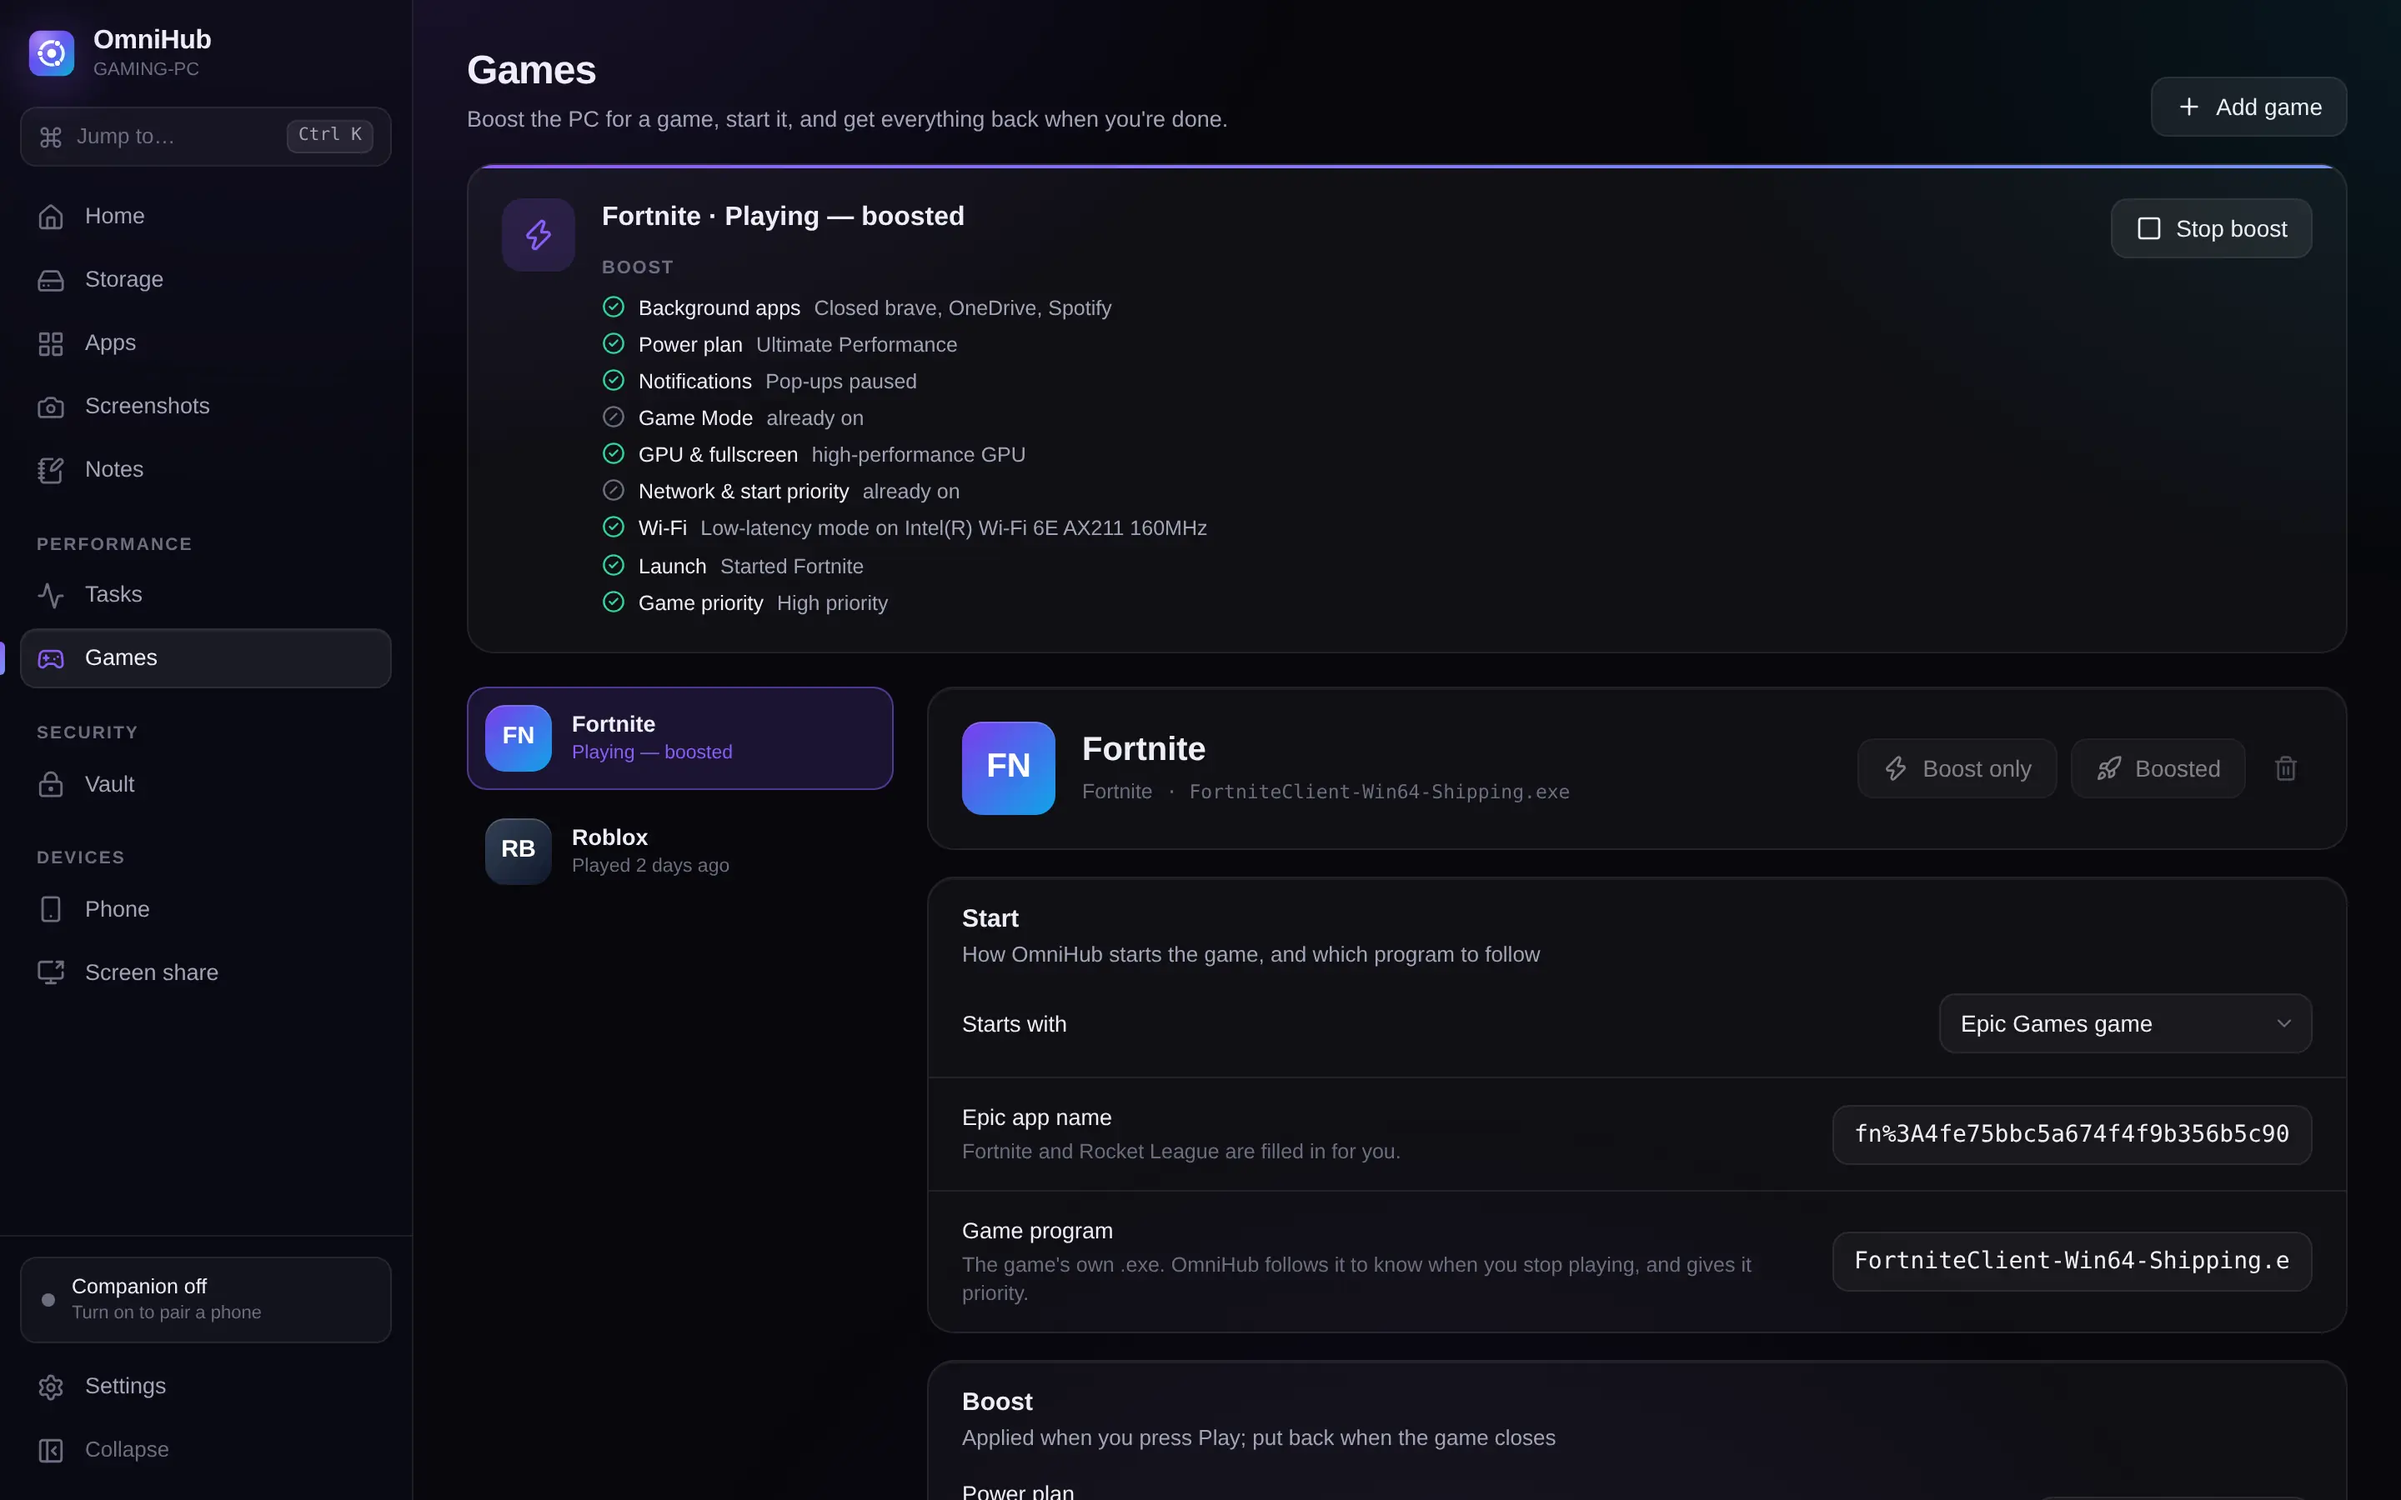
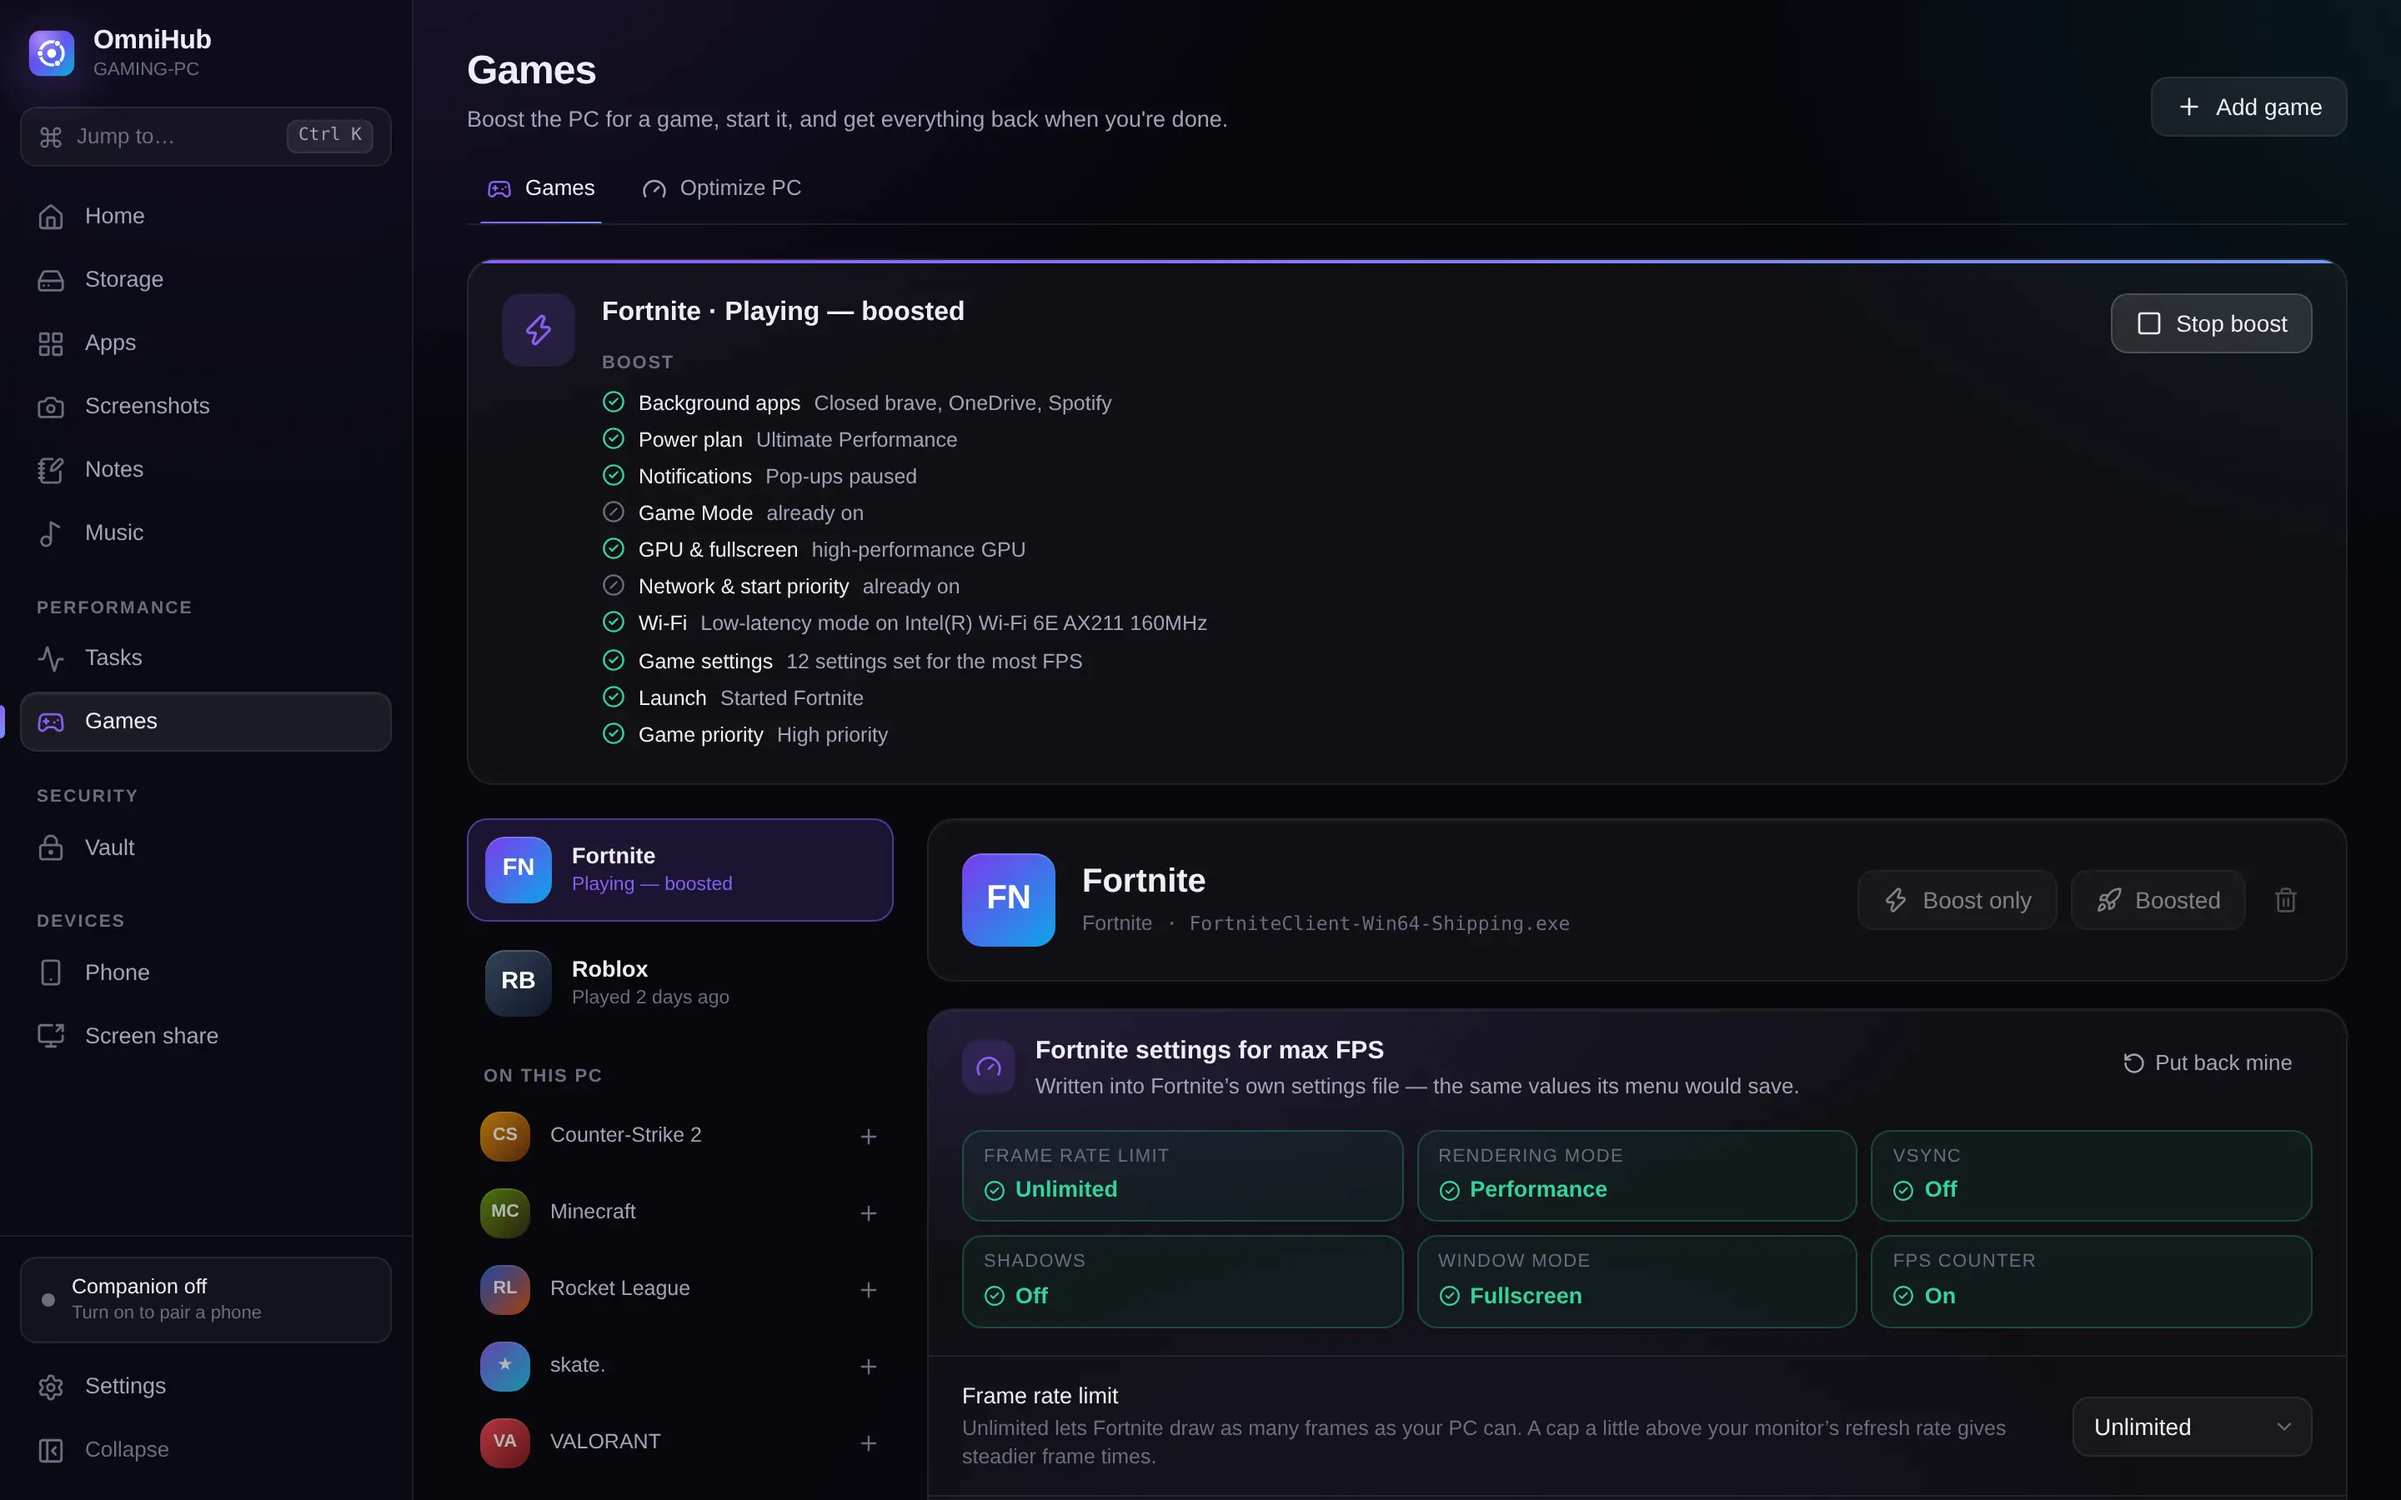
Website: Fortnite at max FPS, Optimize PC, full-screen lyrics (0.3.0)
Claude-Session: https://claude.ai/code/session_019TP5o51yNw9HsYFE8GhTTe

diff --git a/app.js b/app.js
@@ -297,7 +297,8 @@
     { id: 'storage', icon: 'drive', label: 'Storage', title: 'Storage', heading: 'See what fills your drives — in seconds', text: "OmniHub reads the NTFS file table directly, like WizTree and Everything, and keeps it current from Windows' change journal. Treemap, largest files, file types, what grew, duplicates and cleanup.", tags: ['1.15M files in 3.3 s', 'Treemap', 'Duplicates', 'Cleanup'] },
     { id: 'apps', icon: 'apps', label: 'Apps', title: 'Apps', heading: 'Every program, with its real size', text: 'Desktop programs, Store apps and Start menu entries with their icons and the size from your last scan. Launch, uninstall, manage startup apps, or see the screenshots you took in each.', tags: ['Store apps', 'Uninstall', 'Startup apps', 'Favourites'] },
     { id: 'tasks', icon: 'tasks', label: 'Tasks', title: 'Tasks', heading: 'What each program really uses', text: 'CPU, memory, GPU, video memory and disk for every program, live — with End task, priority and file location. Same view on your phone.', tags: ['GPU per app', 'Video memory', 'Priority', 'End task'] },
-    { id: 'games', icon: 'game', label: 'Games', title: 'Games', heading: 'A boost for every game', text: 'Press Play and OmniHub switches the power plan, closes what you picked, pauses pop-ups and raises the game — then puts everything back when you quit.', tags: ['Fortnite', 'Roblox flags', 'Ping helper', 'Auto-restore'] },
+    { id: 'games', icon: 'game', label: 'Games', title: 'Games', heading: 'A boost for every game — and Fortnite at max FPS', text: 'Press Play and OmniHub sets Fortnite to unlimited FPS, Performance mode and its lowest settings, switches the power plan, closes what you picked and raises the game — then puts everything back when you quit. It finds the games you have on Epic, Steam, Riot, Roblox and Minecraft.', tags: ['Fortnite max FPS', 'Finds your games', 'Roblox flags', 'Ping helper'] },
+    { id: 'music', icon: 'music', label: 'Music', title: 'Music', heading: 'Lyrics, Apple Music style — full screen', text: 'Whatever the PC plays, with its cover art blurred into drifting light, big lyrics that glide up line by line and fill word by word, and three dots through the breaks. Click any line to jump there.', tags: ['Full screen', 'Word by word', 'Click to seek', 'Spotify & more'] },
     { id: 'vault', icon: 'lock', label: 'Vault', title: 'Vault', heading: 'Passwords, properly locked', text: 'Argon2id and AES-256-GCM, bound to your Windows account. Two-factor codes, a password health report, an optional breach check — and autofill in Brave, Chrome and Edge.', tags: ['Windows Hello', '2FA codes', 'Autofill', 'Breach check'] },
     { id: 'notes', icon: 'idea', label: 'Notes', title: 'Notes', heading: 'Notes, and ideas for Claude', text: 'Markdown notes with templates and reminders. Ideas are written as .md files into a folder Claude can read — and replies Claude writes there show up next to your note.', tags: ['Markdown', 'Templates', 'Reminders', 'Claude folder'] },
     { id: 'screenshots', icon: 'camera', label: 'Screenshots', title: 'Screenshots', heading: 'Capture it, mark it up, find it again', text: 'Region, window or every screen with global hotkeys. A searchable library with tags and favourites, markup and text recognition — saved as normal files in your Pictures.', tags: ['Hotkeys', 'Markup', 'Text recognition', 'Tags'] },
@@ -423,6 +424,10 @@
     ['apps', 'Apps with real sizes', 'Every desktop and Store app with its size. Uninstall, launch, and turn off startup apps.'],
     ['tasks', 'GPU per program', 'CPU, memory, GPU, video memory and disk for every program — End task and priority included.'],
     ['game', 'Game boost', 'Power plan, background apps, notifications, GPU, Wi-Fi and priority — tuned for the game, then put back.'],
+    ['game', 'Fortnite at max FPS', 'Unlimited frame rate, Performance mode, lowest settings, VSync off and the FPS counter — written into Fortnite’s own settings, with yours kept to put back.'],
+    ['tasks', 'Optimize this PC', 'Monitor at its full refresh rate, Ultimate power plan, no background game recording, GPU scheduling and more — each one checked and undoable.'],
+    ['apps', 'Finds your games', 'Epic, Steam, Riot, Roblox and Minecraft games on this PC, ready to add with one click.'],
+    ['music', 'Full-screen lyrics', 'Apple Music–style lyrics on the PC: drifting cover-art light, lines that glide up and fill word by word.'],
     ['music', 'Music with lyrics', 'Spotify, Apple Music or a browser — controls, cover art, volume, bass and synced lyrics on your phone, upright or sideways.'],
     ['volume', 'Volume mixer', 'Every app’s volume and mute from your phone — turn the game down, Spotify up.'],
     ['mic', 'Call controls', 'In a Discord, WhatsApp or Nyxen call? Mute your mic or deafen from the couch.'],

diff --git a/index.html b/index.html
@@ -191,7 +191,7 @@
       <div class="section-head reveal">
         <span class="eyebrow">Game boost</span>
         <h2>Press Play. OmniHub gets out of the way.</h2>
-        <p>A profile per game — Fortnite, Roblox, VALORANT, CS2 and more. It tunes Windows for the game, starts it, and puts everything back when you quit.</p>
+        <p>A profile per game — Fortnite, Roblox, VALORANT, CS2, Minecraft and more, found on your PC. It sets the game itself for the most frames, tunes Windows for it, starts it, and puts everything back when you quit.</p>
       </div>
       <div class="games">
         <div class="card boost reveal">
@@ -201,6 +201,7 @@
             <button class="btn btn-primary btn-sm" data-boost>Play with boost</button>
           </div>
           <ol class="steps" data-steps>
+            <li>Fortnite: unlimited FPS, Performance mode, lowest settings</li>
             <li>Ultimate Performance power plan</li>
             <li>Close the apps you picked (and reopen them later)</li>
             <li>Pause notification pop-ups</li>
@@ -231,8 +232,8 @@
         </div>
       </div>
       <figure class="window games-window reveal">
-        <div class="window-bar"><i></i><i></i><i></i><span>Games</span></div>
-        <img src="assets/shots/desktop-games.webp" alt="The Games page with a Fortnite boost running and every step listed" loading="lazy" width="2880" height="1800" />
+        <div class="window-bar"><i></i><i></i><i></i><span>Games · Optimize PC</span></div>
+        <img src="assets/shots/desktop-optimize.webp" alt="Games → Optimize PC: the processor, graphics card and monitor, and each Windows setting that holds games back, with one click to fix it" loading="lazy" width="2880" height="1800" />
       </figure>
     </section>
 

diff --git a/styles.css b/styles.css
@@ -748,7 +748,7 @@ h2 {
 
 .tour-tabs {
   display: flex;
-  gap: 6px;
+  gap: 2px;
   justify-content: center;
   flex-wrap: wrap;
   margin: 0 auto 28px;
@@ -766,13 +766,13 @@ h2 {
   position: relative;
   display: flex;
   align-items: center;
-  gap: 8px;
-  padding: 9px 14px;
+  gap: 7px;
+  padding: 9px 11px;
   border: 0;
   border-radius: 12px;
   background: transparent;
   color: var(--dim);
-  font-size: 14px;
+  font-size: 13.5px;
   font-weight: 600;
   overflow: hidden;
   transition: color 0.25s, background 0.25s;
